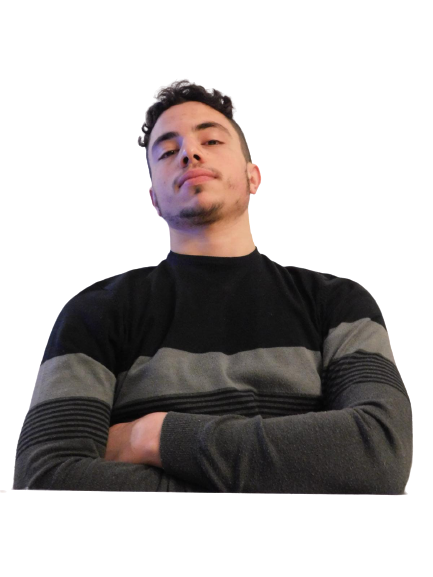
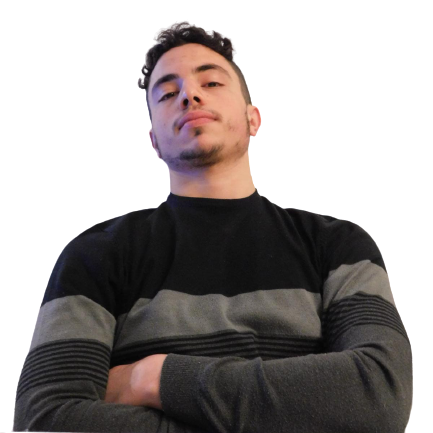
Changed language and text

diff --git a/index.html b/index.html
@@ -27,9 +27,9 @@
                 </button>
                 <div class="collapse navbar-collapse" id="navbarResponsive">
                     <ul class="navbar-nav ms-auto">
-                        <li class="nav-item mx-0 mx-lg-1"><a class="nav-link py-3 px-0 px-lg-3 rounded" href="#portfolio">Portfolio</a></li>
-                        <li class="nav-item mx-0 mx-lg-1"><a class="nav-link py-3 px-0 px-lg-3 rounded" href="#about">About</a></li>
-                        <li class="nav-item mx-0 mx-lg-1"><a class="nav-link py-3 px-0 px-lg-3 rounded" href="#contact">Contact</a></li>
+                        <li class="nav-item mx-0 mx-lg-1"><a class="nav-link py-3 px-0 px-lg-3 rounded" href="#portfolio">Progetti</a></li>
+                        <li class="nav-item mx-0 mx-lg-1"><a class="nav-link py-3 px-0 px-lg-3 rounded" href="#about">Su di Me</a></li>
+                        <li class="nav-item mx-0 mx-lg-1"><a class="nav-link py-3 px-0 px-lg-3 rounded" href="#contact">Contattami</a></li>
                     </ul>
                 </div>
             </div>
@@ -38,7 +38,7 @@
         <header class="masthead bg-primary text-white text-center">
             <div class="container d-flex align-items-center flex-column">
                 <!-- Masthead Avatar Image-->
-                <img class="masthead-avatar mb-5" src="assets/img/avatar.png" alt="Immagine di profilo" />
+                <img class="masthead-avatar mb-5" src="assets/img/avatar3.png" alt="Immagine di profilo" />
                 <!-- Masthead Heading-->
                 <h1 class="masthead-heading text-uppercase mb-0">Vincenzo Longo</h1>
                 <!-- Icon Divider-->
@@ -55,7 +55,7 @@
         <section class="page-section portfolio" id="portfolio">
             <div class="container">
                 <!-- Portfolio Section Heading-->
-                <h2 class="page-section-heading text-center text-uppercase text-secondary mb-0">Portfolio</h2>
+                <h2 class="page-section-heading text-center text-uppercase text-secondary mb-0">Progetti</h2>
                 <!-- Icon Divider-->
                 <div class="divider-custom">
                     <div class="divider-custom-line"></div>
@@ -125,7 +125,7 @@
         <section class="page-section bg-primary text-white mb-0" id="about">
             <div class="container">
                 <!-- About Section Heading-->
-                <h2 class="page-section-heading text-center text-uppercase text-white">About</h2>
+                <h2 class="page-section-heading text-center text-uppercase text-white">Su di Me</h2>
                 <!-- Icon Divider-->
                 <div class="divider-custom divider-light">
                     <div class="divider-custom-line"></div>
@@ -137,20 +137,13 @@
                     <div class="col-lg-4 ms-auto"><p class="lead">Freelancer is a free bootstrap theme created by Start Bootstrap. The download includes the complete source files including HTML, CSS, and JavaScript as well as optional SASS stylesheets for easy customization.</p></div>
                     <div class="col-lg-4 me-auto"><p class="lead">You can create your own custom avatar for the masthead, change the icon in the dividers, and add your email address to the contact form to make it fully functional!</p></div>
                 </div>
-                <!-- About Section Button-->
-                <div class="text-center mt-4">
-                    <a class="btn btn-xl btn-outline-light" href="https://startbootstrap.com/theme/freelancer/">
-                        <i class="fas fa-download me-2"></i>
-                        Free Download!
-                    </a>
-                </div>
             </div>
         </section>
         <!-- Contact Section-->
         <section class="page-section" id="contact">
             <div class="container">
                 <!-- Contact Section Heading-->
-                <h2 class="page-section-heading text-center text-uppercase text-secondary mb-0">Contact Me</h2>
+                <h2 class="page-section-heading text-center text-uppercase text-secondary mb-0">Contattami</h2>
                 <!-- Icon Divider-->
                 <div class="divider-custom">
                     <div class="divider-custom-line"></div>
@@ -170,28 +163,28 @@
                         <form id="contactForm" data-sb-form-api-token="API_TOKEN">
                             <!-- Name input-->
                             <div class="form-floating mb-3">
-                                <input class="form-control" id="name" type="text" placeholder="Enter your name..." data-sb-validations="required" />
-                                <label for="name">Full name</label>
-                                <div class="invalid-feedback" data-sb-feedback="name:required">A name is required.</div>
+                                <input class="form-control" id="name" type="text" placeholder="Inserisci il tuo Nome..." data-sb-validations="required" />
+                                <label for="name">Nome</label>
+                                <div class="invalid-feedback" data-sb-feedback="name:required">E' richiesto un nome.</div>
                             </div>
                             <!-- Email address input-->
                             <div class="form-floating mb-3">
-                                <input class="form-control" id="email" type="email" placeholder="name@example.com" data-sb-validations="required,email" />
-                                <label for="email">Email address</label>
-                                <div class="invalid-feedback" data-sb-feedback="email:required">An email is required.</div>
-                                <div class="invalid-feedback" data-sb-feedback="email:email">Email is not valid.</div>
+                                <input class="form-control" id="email" type="email" placeholder="name@esempio.com" data-sb-validations="required,email" />
+                                <label for="email">Indirizzo Email</label>
+                                <div class="invalid-feedback" data-sb-feedback="email:required">E' richiesta un'email.</div>
+                                <div class="invalid-feedback" data-sb-feedback="email:email">Email non valida.</div>
                             </div>
                             <!-- Phone number input-->
                             <div class="form-floating mb-3">
                                 <input class="form-control" id="phone" type="tel" placeholder="(123) 456-7890" data-sb-validations="required" />
-                                <label for="phone">Phone number</label>
-                                <div class="invalid-feedback" data-sb-feedback="phone:required">A phone number is required.</div>
+                                <label for="phone">Numero di Telefono</label>
+                                <div class="invalid-feedback" data-sb-feedback="phone:required">E' richiesto un numero di telefono.</div>
                             </div>
                             <!-- Message input-->
                             <div class="form-floating mb-3">
-                                <textarea class="form-control" id="message" type="text" placeholder="Enter your message here..." style="height: 10rem" data-sb-validations="required"></textarea>
-                                <label for="message">Message</label>
-                                <div class="invalid-feedback" data-sb-feedback="message:required">A message is required.</div>
+                                <textarea class="form-control" id="message" type="text" placeholder="Scrivi qui il tuo messaggio..." style="height: 10rem" data-sb-validations="required"></textarea>
+                                <label for="message">Messaggio</label>
+                                <div class="invalid-feedback" data-sb-feedback="message:required">E' richiesto un messaggio.</div>
                             </div>
                             <!-- Submit success message-->
                             <!---->

diff --git a/css/styles.css b/css/styles.css
@@ -10990,6 +10990,8 @@ html {
 }
 .masthead .masthead-avatar {
   width: 15rem;
+  border: solid 2px;
+  border-radius: 100px;
 }
 
 @media (min-width: 992px) {
